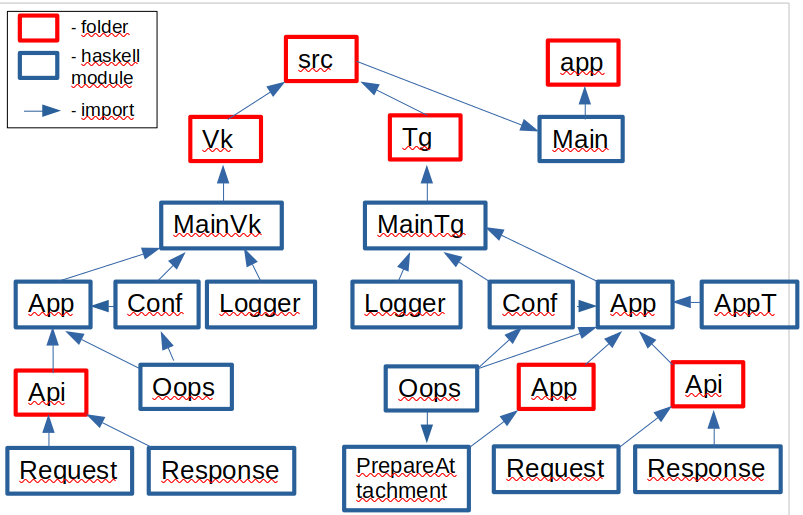
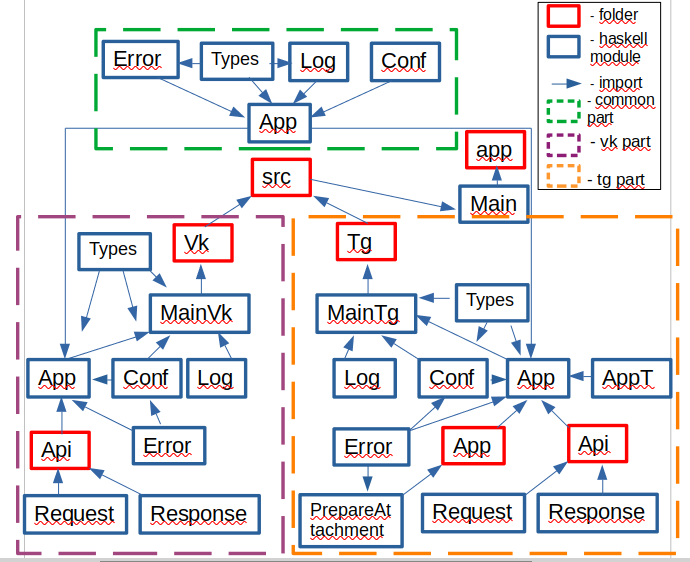
change project structure in readme, Tg.Api.Request.CopyMsgJSONBody -> to camelCase(start with camelCase)

diff --git a/README.md b/README.md
@@ -68,17 +68,25 @@ The logging level is specified in [Configuration](#2-configuration). The log wil
 
 ![](https://github.com/JekaGrib/ben/raw/master/pic/structure.png)
 
-Application has two main parts. For Vk and Tg messengers.
+Application has three main parts. 
+
+Сommon functionality part and two specialized messenger parts. For Vk and Tg messengers.
+
+All parts has following modeles :
+
+App - module with main functionality (has handler)
+
+Types - module with types
 
 Conf - module with configuration
 
-Logger - module with logging (has handler)
+Log - module with logging (has handler)
 
-Oops - module with exceptions processing
+Error - module with exceptions processing
+
+Messenger parts has some extra modules:
 
 Api - folder with parsing requests and responses modules
-
-App - module with bot main functionality (has handler)
 
 PrepareAttachment - module with prepare attachment messages functionality for Vk (has handler)
 
@@ -92,6 +100,7 @@ You can test bot with:
 
 Modules, which has handlers, have unit-tests:
 
+1. App.hs
 1. Tg.App.hs
 1. Vk.App.hs
 1. Vk.App.PrepareAttachment.hs
